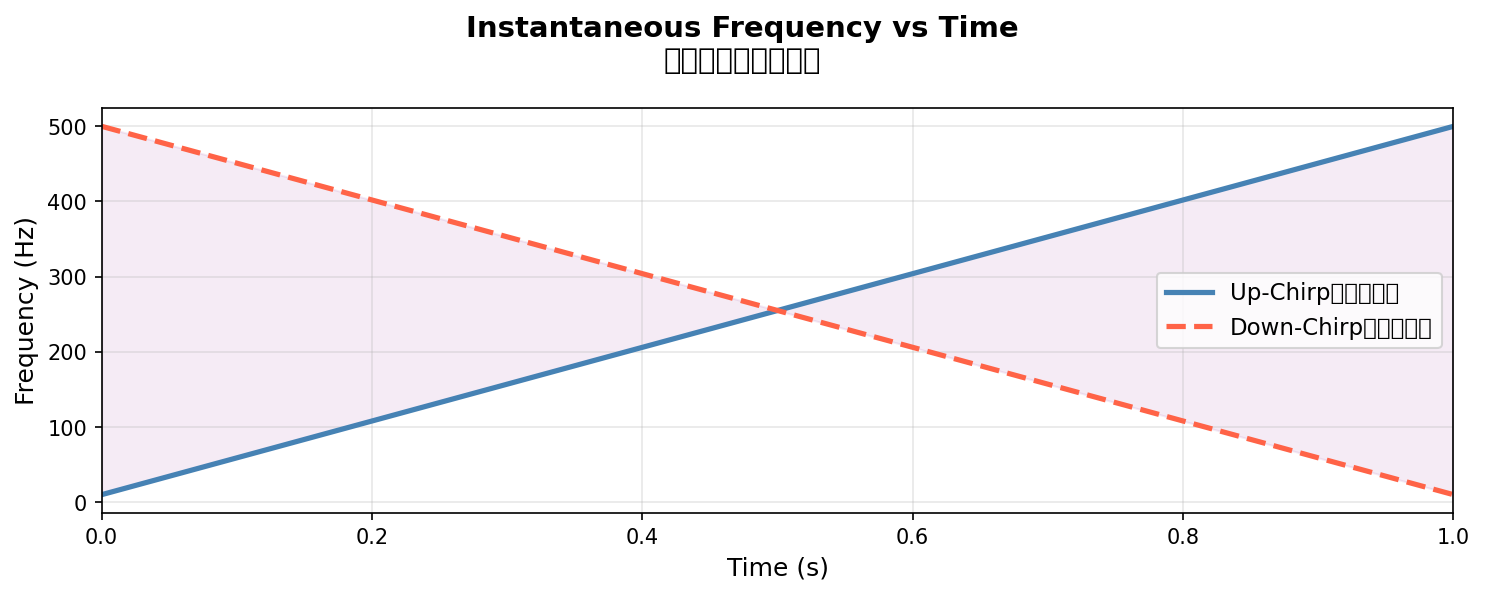
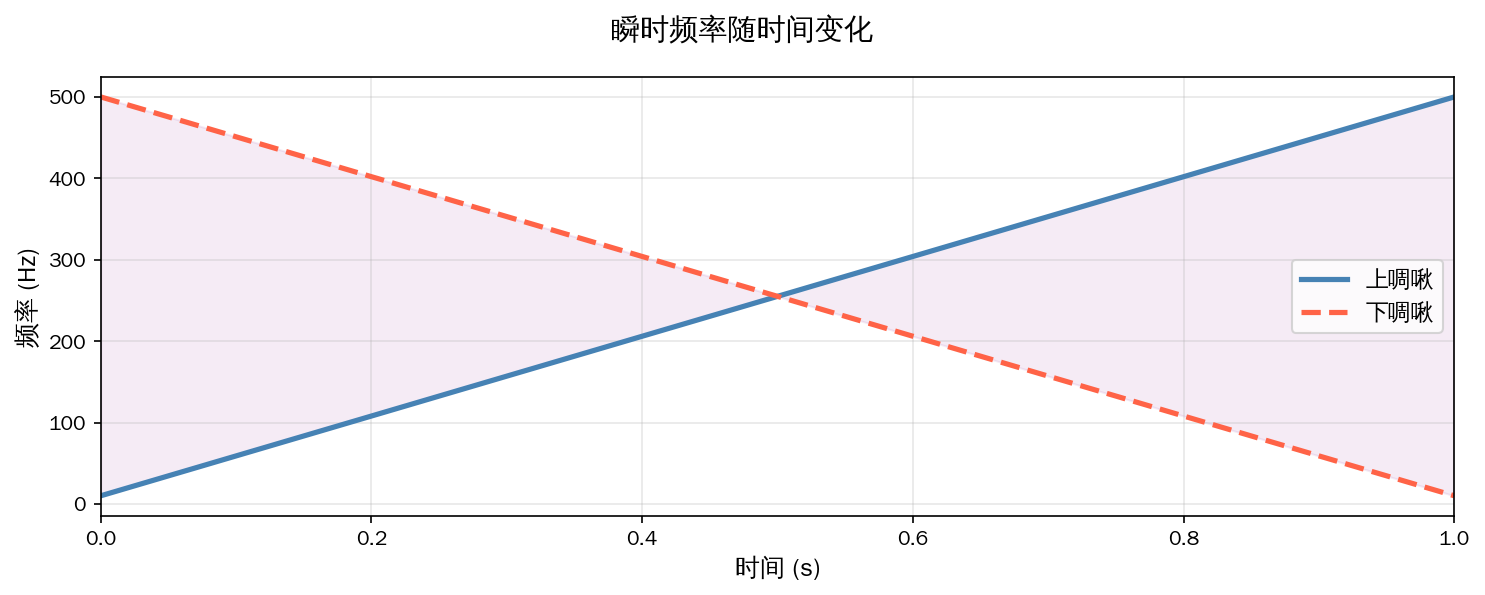
Fix Chinese font rendering and translate all labels to Chinese
https://claude.ai/code/session_01Rc1BgPX2oMwjSrxqgPRJGq

diff --git a/chirp_demo.py b/chirp_demo.py
@@ -5,7 +5,8 @@ import matplotlib.pyplot as plt
 import matplotlib.gridspec as gridspec
 from scipy.signal import chirp, spectrogram
 
-plt.rcParams['font.family'] = 'DejaVu Sans'
+plt.rcParams['font.family'] = ['WenQuanYi Zen Hei', 'DejaVu Sans']
+plt.rcParams['axes.unicode_minus'] = False
 plt.rcParams['figure.dpi'] = 150
 
 # ── 参数 ──────────────────────────────────────────────
@@ -21,21 +22,21 @@ down = chirp(t, f0=f1, f1=f0, t1=T, method='linear', phi=90)
 # 图1：时域波形对比
 # ══════════════════════════════════════════════════════
 fig1, axes = plt.subplots(2, 1, figsize=(11, 6), sharex=True)
-fig1.suptitle('Chirp Signal — Time-Domain Waveform\n啁啾信号时域波形', fontsize=14, fontweight='bold')
+fig1.suptitle('啁啾信号时域波形', fontsize=14, fontweight='bold')
 
 for ax, sig, label, color in zip(
         axes,
         [up, down],
-        ['Up-Chirp  (上啁啾: 10 Hz → 500 Hz)', 'Down-Chirp  (下啁啾: 500 Hz → 10 Hz)'],
+        ['上啁啾：10 Hz → 500 Hz（频率递增）', '下啁啾：500 Hz → 10 Hz（频率递减）'],
         ['steelblue', 'tomato']):
     ax.plot(t[:3000], sig[:3000], color=color, lw=0.8)
-    ax.set_ylabel('Amplitude', fontsize=11)
+    ax.set_ylabel('幅值', fontsize=11)
     ax.set_title(label, fontsize=12)
     ax.axhline(0, color='gray', lw=0.5, ls='--')
     ax.set_ylim(-1.4, 1.4)
     ax.grid(True, alpha=0.3)
 
-axes[-1].set_xlabel('Time (s)', fontsize=11)
+axes[-1].set_xlabel('时间 (s)', fontsize=11)
 plt.tight_layout()
 fig1.savefig('/home/user/FBG_pro/fig1_waveform.png', bbox_inches='tight')
 plt.close()
@@ -44,16 +45,16 @@ plt.close()
 # 图2：瞬时频率 vs 时间
 # ══════════════════════════════════════════════════════
 fig2, ax = plt.subplots(figsize=(10, 4))
-fig2.suptitle('Instantaneous Frequency vs Time\n瞬时频率随时间变化', fontsize=14, fontweight='bold')
+fig2.suptitle('瞬时频率随时间变化', fontsize=14, fontweight='bold')
 
 freq_up   = f0 + (f1 - f0) * t / T
 freq_down = f1 - (f1 - f0) * t / T
 
-ax.plot(t, freq_up,   color='steelblue', lw=2.5, label='Up-Chirp（上啁啾）')
-ax.plot(t, freq_down, color='tomato',    lw=2.5, label='Down-Chirp（下啁啾）', ls='--')
+ax.plot(t, freq_up,   color='steelblue', lw=2.5, label='上啁啾')
+ax.plot(t, freq_down, color='tomato',    lw=2.5, label='下啁啾', ls='--')
 ax.fill_between(t, freq_up, freq_down, alpha=0.08, color='purple')
-ax.set_xlabel('Time (s)', fontsize=12)
-ax.set_ylabel('Frequency (Hz)', fontsize=12)
+ax.set_xlabel('时间 (s)', fontsize=12)
+ax.set_ylabel('频率 (Hz)', fontsize=12)
 ax.legend(fontsize=11)
 ax.grid(True, alpha=0.3)
 ax.set_xlim(0, T)
@@ -65,21 +66,21 @@ plt.close()
 # 图3：时频谱图（Spectrogram）
 # ══════════════════════════════════════════════════════
 fig3, axes = plt.subplots(1, 2, figsize=(13, 5))
-fig3.suptitle('Spectrogram (Time-Frequency Analysis)\n时频谱图', fontsize=14, fontweight='bold')
+fig3.suptitle('时频谱图（短时傅里叶变换）', fontsize=14, fontweight='bold')
 
 for ax, sig, label, cmap in zip(
         axes,
         [up, down],
-        ['Up-Chirp', 'Down-Chirp'],
+        ['上啁啾', '下啁啾'],
         ['Blues', 'Reds']):
     f_arr, t_arr, Sxx = spectrogram(sig, fs=fs, nperseg=256, noverlap=200)
     im = ax.pcolormesh(t_arr, f_arr, 10*np.log10(Sxx + 1e-12),
                        cmap=cmap, shading='gouraud', vmin=-60)
     ax.set_ylim(0, 600)
-    ax.set_xlabel('Time (s)', fontsize=11)
-    ax.set_ylabel('Frequency (Hz)', fontsize=11)
+    ax.set_xlabel('时间 (s)', fontsize=11)
+    ax.set_ylabel('频率 (Hz)', fontsize=11)
     ax.set_title(label, fontsize=12)
-    fig3.colorbar(im, ax=ax, label='Power (dB)')
+    fig3.colorbar(im, ax=ax, label='功率 (dB)')
 
 plt.tight_layout()
 fig3.savefig('/home/user/FBG_pro/fig3_spectrogram.png', bbox_inches='tight')
@@ -99,11 +100,12 @@ compressed = np.abs(compressed)
 compressed /= compressed.max()
 
 fig4, axes = plt.subplots(2, 1, figsize=(11, 6))
-fig4.suptitle('Pulse Compression via Matched Filter\n脉冲压缩（匹配滤波）', fontsize=14, fontweight='bold')
+fig4.suptitle('脉冲压缩（匹配滤波）', fontsize=14, fontweight='bold')
 
 axes[0].plot(t, tx_windowed, color='steelblue', lw=0.8)
-axes[0].set_title('Transmitted Chirp Pulse（发射啁啾宽脉冲）', fontsize=12)
-axes[0].set_ylabel('Amplitude', fontsize=11)
+axes[0].set_title('发射信号：啁啾宽脉冲（加汉宁窗）', fontsize=12)
+axes[0].set_ylabel('幅值', fontsize=11)
+axes[0].set_xlabel('时间 (s)', fontsize=11)
 axes[0].grid(True, alpha=0.3)
 
 # 找峰值位置居中显示
@@ -111,9 +113,9 @@ pk = np.argmax(compressed)
 w  = 500
 sl = slice(max(0, pk-w), min(len(t), pk+w))
 axes[1].plot(t[sl] - t[pk], compressed[sl], color='tomato', lw=1.5)
-axes[1].set_title('Compressed Pulse after Matched Filter（压缩后窄脉冲）', fontsize=12)
-axes[1].set_ylabel('Normalized Amplitude', fontsize=11)
-axes[1].set_xlabel('Relative Time (s)', fontsize=11)
+axes[1].set_title('经匹配滤波后：压缩成极窄脉冲', fontsize=12)
+axes[1].set_ylabel('归一化幅值', fontsize=11)
+axes[1].set_xlabel('相对时间 (s)', fontsize=11)
 axes[1].grid(True, alpha=0.3)
 axes[1].annotate('主峰（极窄！）', xy=(0, 1.0), xytext=(0.01, 0.85),
                  arrowprops=dict(arrowstyle='->', color='black'), fontsize=11)
@@ -126,7 +128,7 @@ plt.close()
 # 图5：啁啾 FBG 示意图（概念图）
 # ══════════════════════════════════════════════════════
 fig5, ax = plt.subplots(figsize=(12, 5))
-fig5.suptitle('Chirped FBG Concept\n啁啾光纤布拉格光栅（Chirped FBG）示意', fontsize=14, fontweight='bold')
+fig5.suptitle('啁啾光纤布拉格光栅（Chirped FBG）结构示意', fontsize=14, fontweight='bold')
 ax.set_xlim(0, 10)
 ax.set_ylim(-2.5, 3.5)
 ax.axis('off')
@@ -135,7 +137,7 @@ ax.axis('off')
 ax.fill_between([0.5, 9.5], [-0.4, -0.4], [0.4, 0.4], color='#cce5ff', zorder=1)
 ax.plot([0.5, 9.5], [-0.4, -0.4], color='gray', lw=1.5)
 ax.plot([0.5, 9.5], [ 0.4,  0.4], color='gray', lw=1.5)
-ax.text(5, -0.85, 'Optical Fiber（光纤）', ha='center', fontsize=11, color='gray')
+ax.text(5, -0.85, '光纤', ha='center', fontsize=11, color='gray')
 
 # 光栅条纹：间距从大变小（啁啾）
 x_start = 1.5
